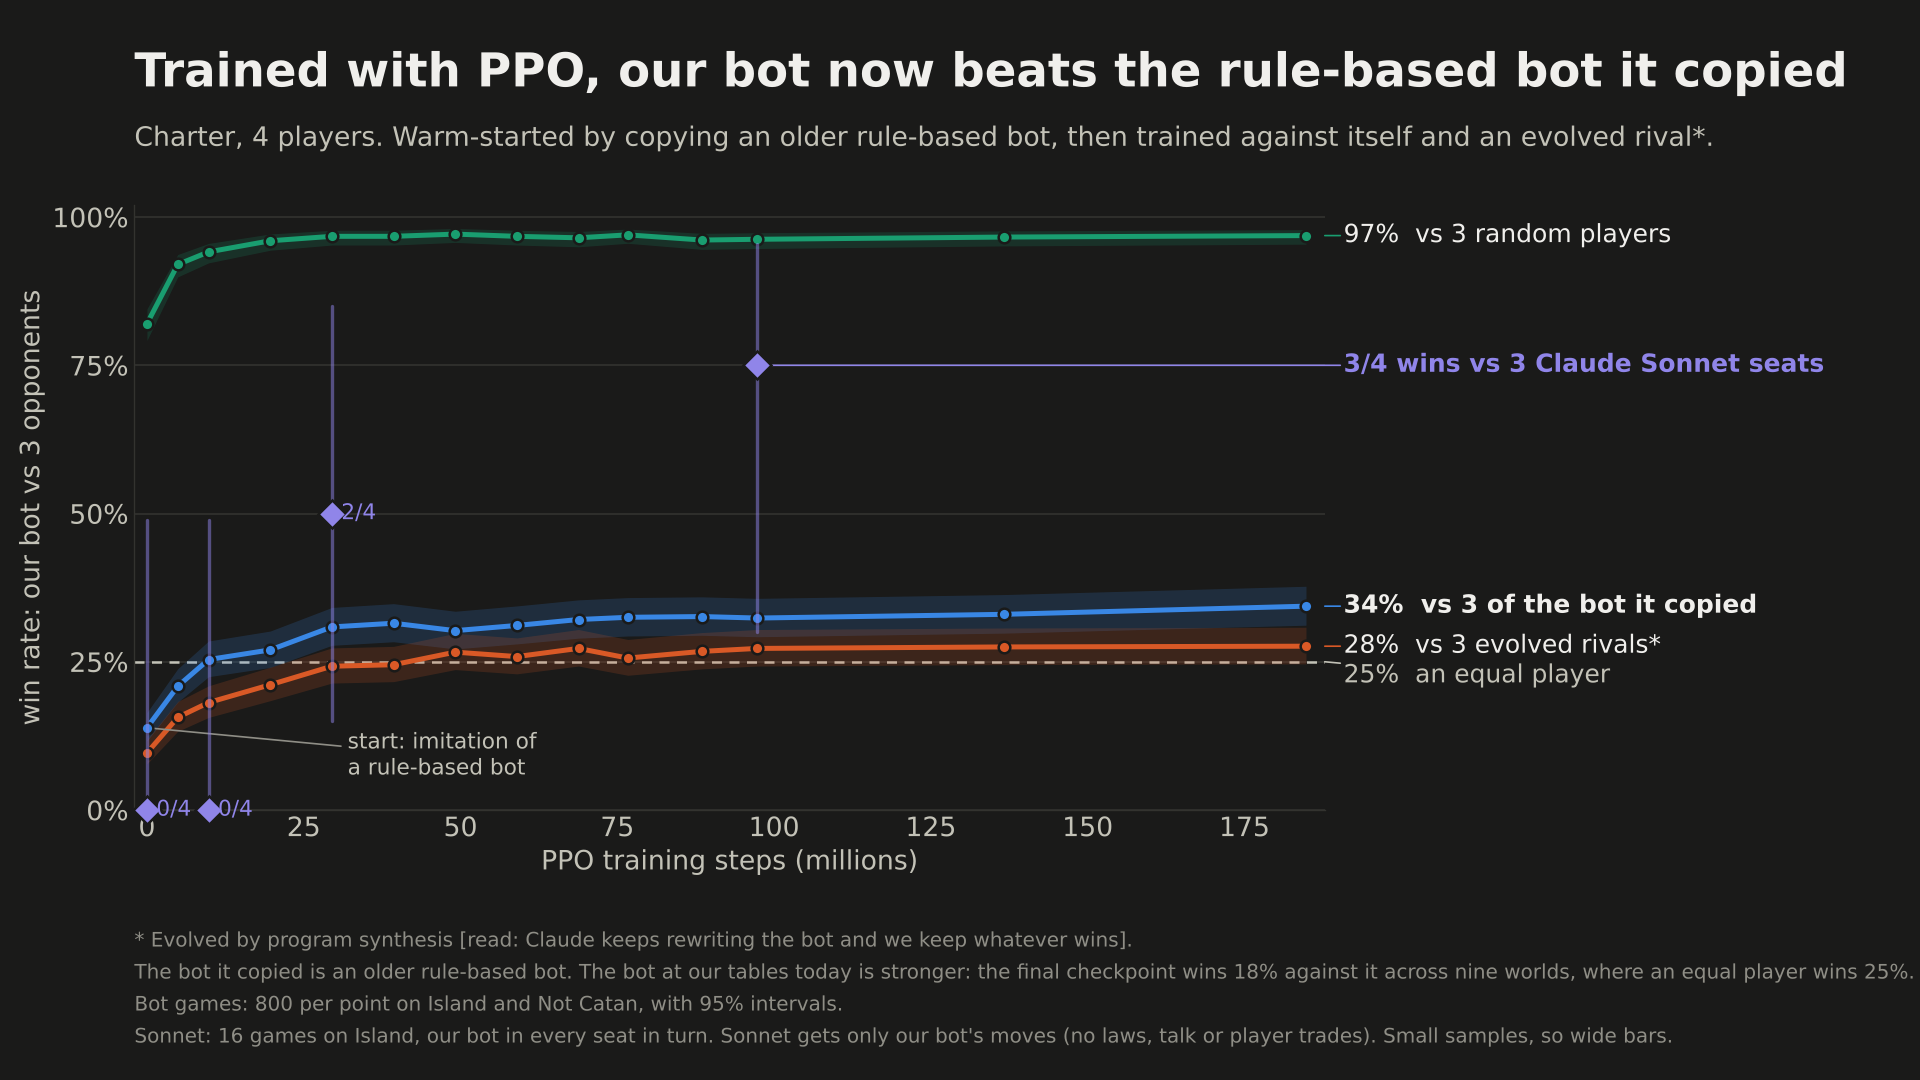
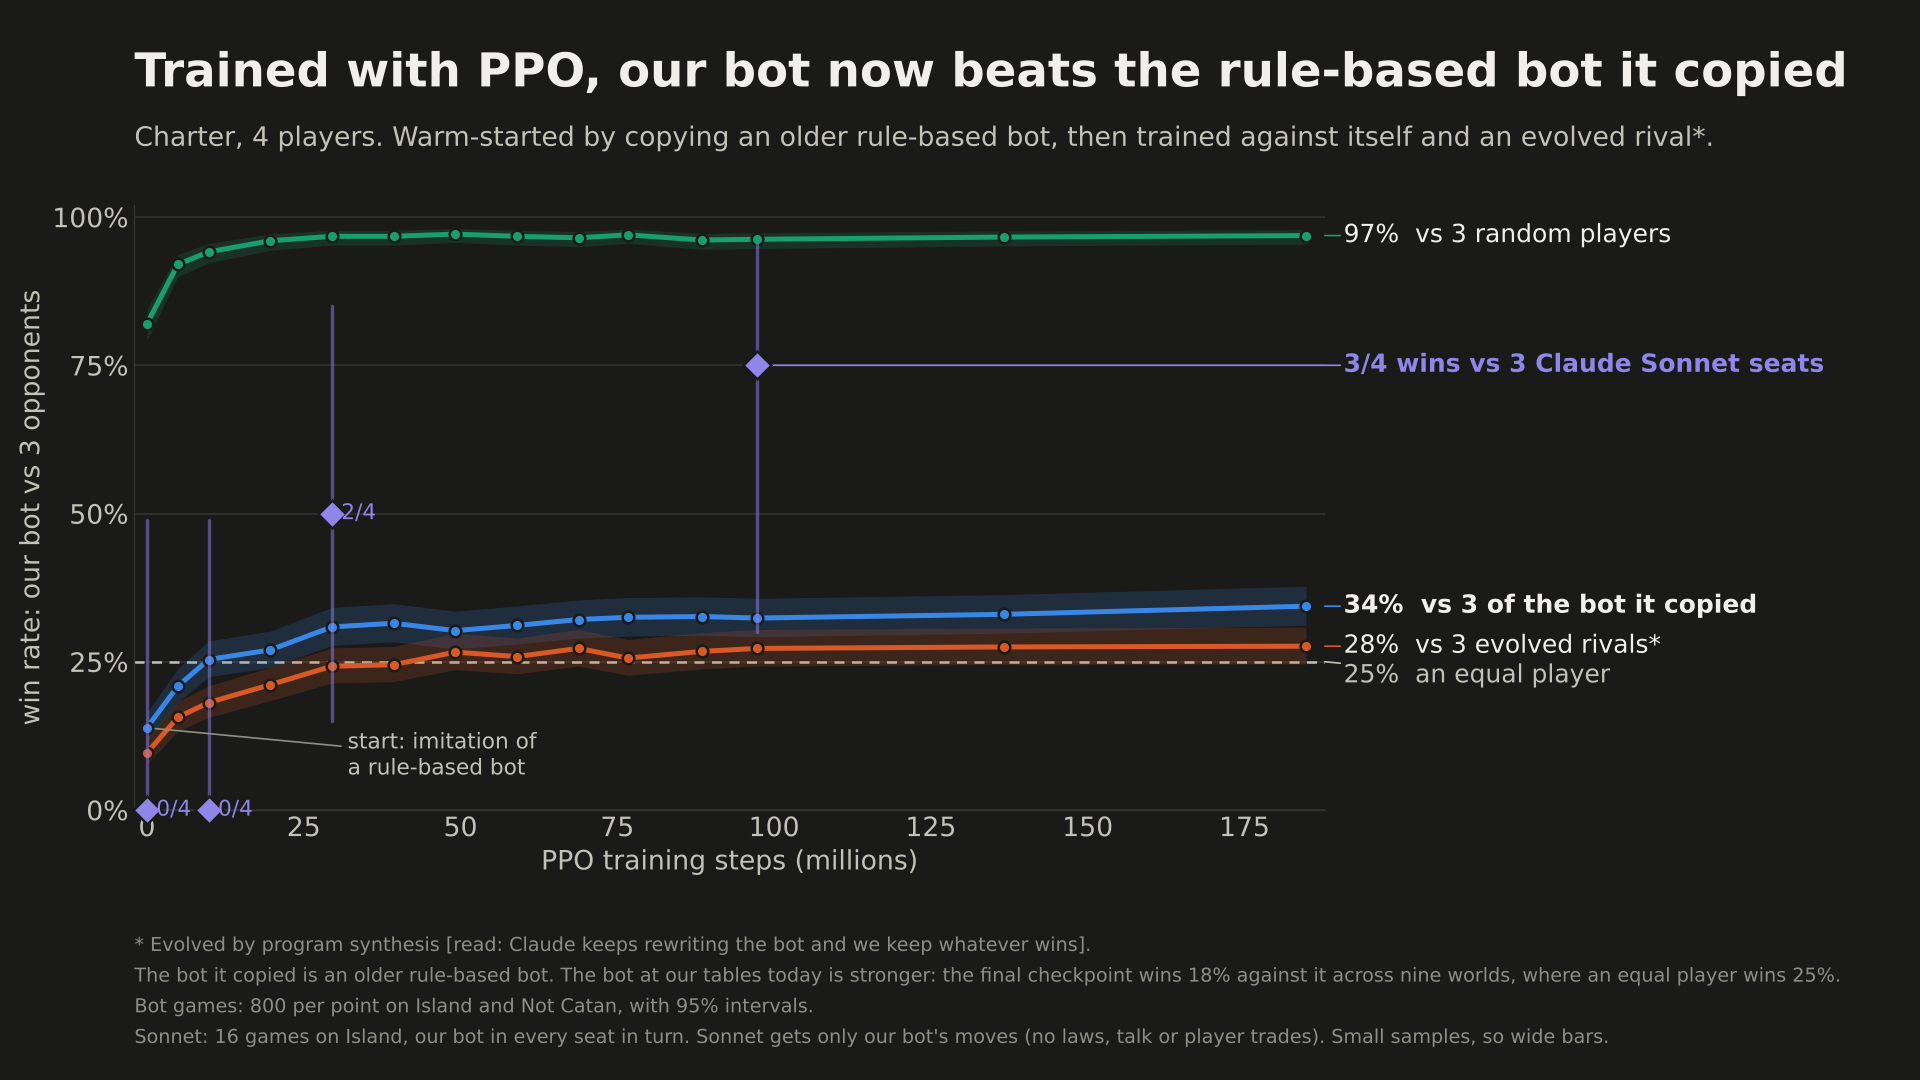
Hero plot: footnote font 11.5 so the new line fits

Changed region(s): [[0.0625, 0.8556, 1.0, 0.9778]]

diff --git a/rl/hero/plot.py b/rl/hero/plot.py
@@ -183,7 +183,7 @@ def draw(theme_name, rows, sonnet, out_paths):
             "Bot games: 800 per point on Island and Not Catan, with 95% intervals.\n"
             f"Sonnet: {n_s} games on Island, our bot in every seat in turn. Sonnet gets only our bot's moves "
             "(no laws, talk or player trades). Small samples, so wide bars.")
-    fig.text(0.07, 0.025, foot, fontsize=12, color=t["muted"], va="bottom", linespacing=1.6)
+    fig.text(0.07, 0.025, foot, fontsize=11.5, color=t["muted"], va="bottom", linespacing=1.6)
     for path in out_paths:
         fig.savefig(path, facecolor=t["bg"], dpi=120)
     plt.close(fig)
